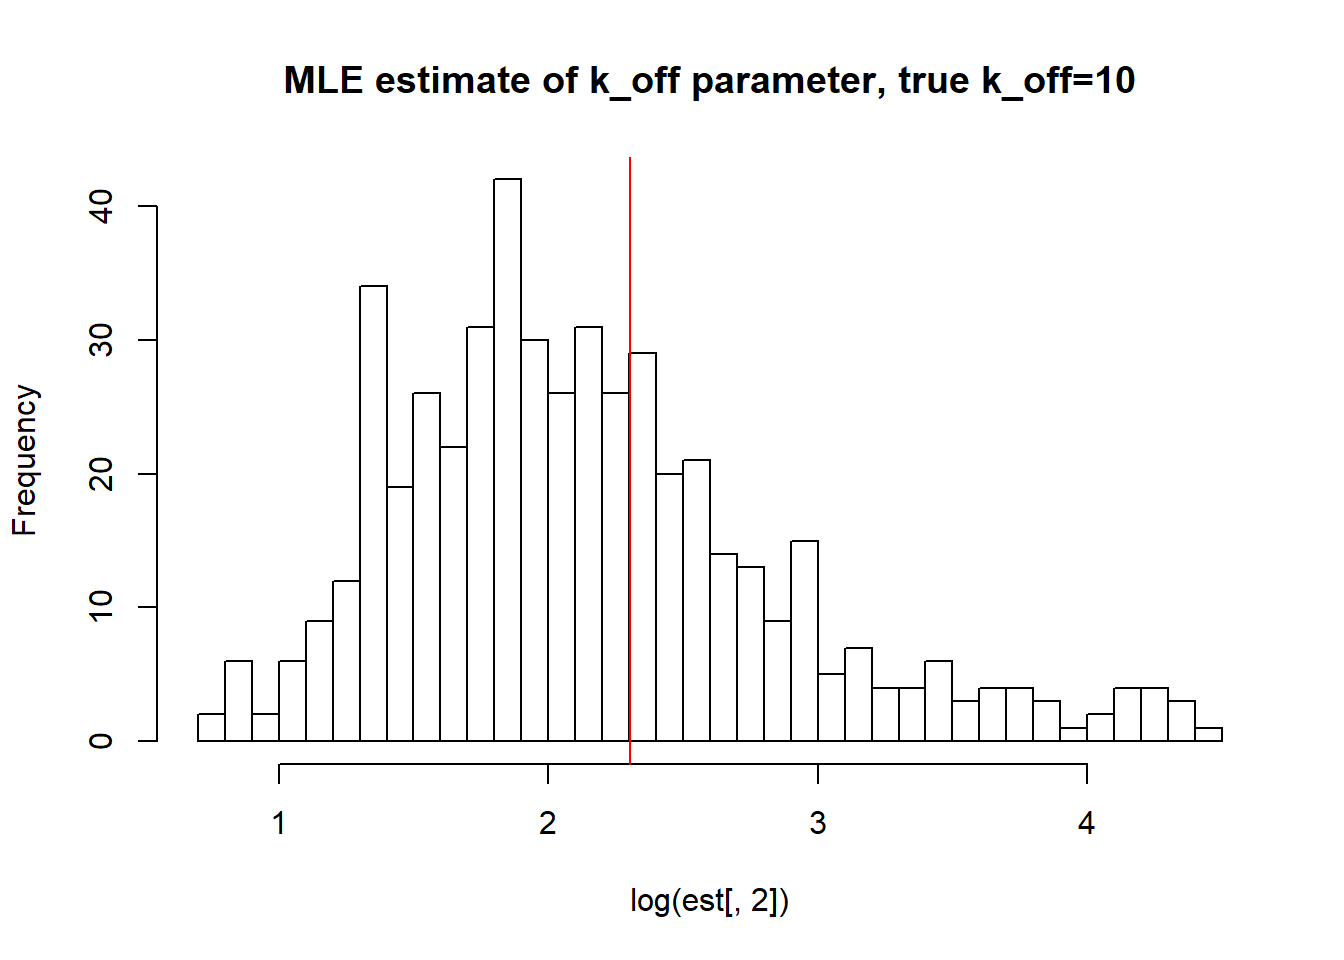
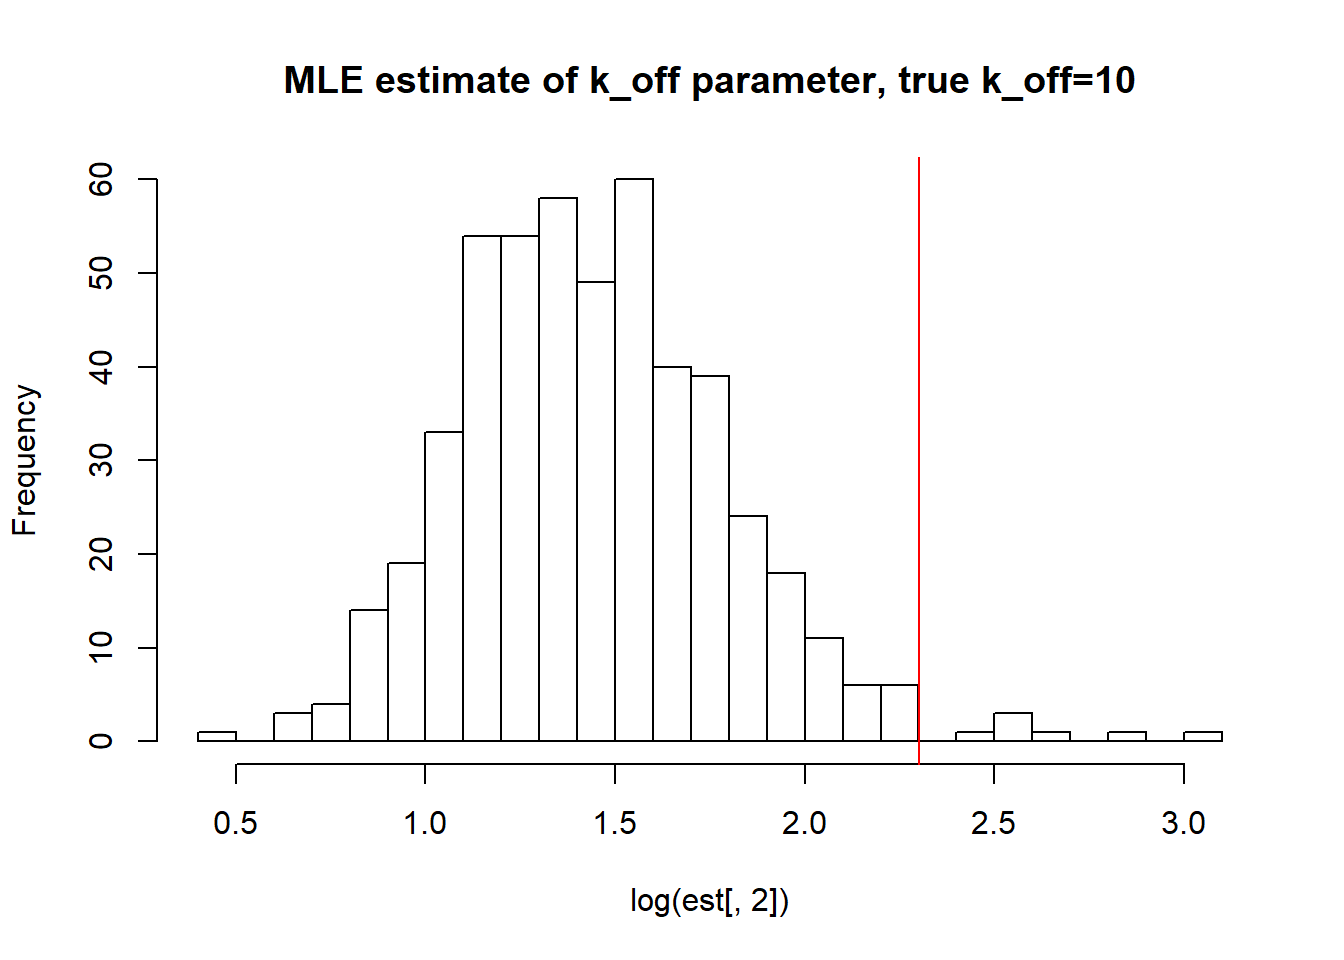
Build site.

diff --git a/docs/MLE_bootstrap.html b/docs/MLE_bootstrap.html
@@ -459,10 +459,10 @@ analysis/MLE.py
 <div class="panel panel-default">
 <div class="panel-heading">
 <p class="panel-title">
-<a data-toggle="collapse" data-parent="#workflowr-checks" href="#strongRepositoryversionstrongahrefhttpsgithubcomMargareth2407ThesissingleRNAtree22e19b2dc88f19d19ec7e51248716d3acc04124btargetblank22e19b2a"> <span class="glyphicon glyphicon-ok text-success" aria-hidden="true"></span> <strong>Repository version:</strong> <a href="https://github.com/Margareth2407/Thesis_single_RNA/tree/22e19b2dc88f19d19ec7e51248716d3acc04124b" target="_blank">22e19b2</a> </a>
+<a data-toggle="collapse" data-parent="#workflowr-checks" href="#strongRepositoryversionstrongahrefhttpsgithubcomMargareth2407ThesissingleRNAtree2367ff31ab141f2fd246efb4c48c546e61797252targetblank2367ff3a"> <span class="glyphicon glyphicon-ok text-success" aria-hidden="true"></span> <strong>Repository version:</strong> <a href="https://github.com/Margareth2407/Thesis_single_RNA/tree/2367ff31ab141f2fd246efb4c48c546e61797252" target="_blank">2367ff3</a> </a>
 </p>
 </div>
[2 lines of base64/hex data omitted]
 <div class="panel-body">
 <p>
 Great! You are using Git for version control. Tracking code development and connecting the code version to the results is critical for reproducibility. The version displayed above was the version of the Git repository at the time these results were generated. <br><br> Note that you need to be careful to ensure that all relevant files for the analysis have been committed to Git prior to generating the results (you can use <code>wflow_publish</code> or <code>wflow_git_commit</code>). workflowr only checks the R Markdown file, but you know if there are other scripts or data files that it depends on. Below is the status of the Git repository when the results were generated:
@@ -511,41 +511,65 @@ There are no past versions. Publish this analysis with <code>wflow_publish()</co
 <li><p>For 500 iterations, sample with replacement bootstrapped data</p></li>
 <li><p>Estimate parameters by maximum likelihood</p></li>
 </ol>
+<pre class="r"><code>bootstrap&lt;-function(boot_number,k_on,k_off,kr,n_cells){
+  est=matrix(, nrow = boot_number, ncol = 3)
+  x=generate_data(k_on,k_off,kr,n_cells)
+  for (i in 1:boot_number){
+    boot_x = as.matrix(x[sample(nrow(x),nrow(x),replace=TRUE)])
+    est[i,]=MaximumLikelihood(boot_x)}
+  return(est)}</code></pre>
 <div id="i-small-k_on-and-k_off-case" class="section level2">
 <h2>I) Small <span class="math inline">\(k_{on}\)</span> and <span class="math inline">\(k_{off}\)</span> case:</h2>
+<pre class="r"><code>#True k_on=k_off=0.1
+boot_number=500
+k_on=as.numeric(0.1)
+k_off=as.numeric(0.1)
+kr=as.numeric(100)
+n_cells=as.integer(500)
+est&lt;-bootstrap(boot_number,k_on,k_off,kr,n_cells)
+
+hist(log(est[,1]),breaks=30, main=&quot;MLE estimate of k_on parameter,true k_on=0.1&quot;)
+abline(v=log(0.1),col=&#39;red&#39;)</code></pre>
 <p><img src="figure/MLE_bootstrap.Rmd/unnamed-chunk-3-1.png" width="672" style="display: block; margin: auto;" /></p>
-<pre><code>[1] &quot;true k_on is 0.1; k_on mean; 0.098 k_on median 0.098 k_on st.deviation 0.01&quot;</code></pre>
+<pre class="r"><code>paste(&quot;true k_on is 0.1;&quot;,&quot;k_on mean;&quot;,round(mean(est[,1],na.rm=TRUE),3),&quot;k_on median&quot;, round(median(est[,1],na.rm=TRUE),3),&quot;k_on st.deviation&quot;,round(sqrt(var(est[,1])),3))</code></pre>
+<pre><code>[1] &quot;true k_on is 0.1; k_on mean; 0.117 k_on median 0.117 k_on st.deviation 0.011&quot;</code></pre>
+<pre class="r"><code>hist(log(est[,2]),breaks=30, main=&quot;MLE estimate of k_off parameter, true k_off=0.1&quot;)
+abline(v=log(0.1),col=&#39;red&#39;)</code></pre>
 <p><img src="figure/MLE_bootstrap.Rmd/unnamed-chunk-3-2.png" width="672" style="display: block; margin: auto;" /></p>
-<pre><code>[1] &quot;true k_off is 0.1; k_off mean; 0.101 k_off median 0.1 k_off st.deviation 0.013&quot;</code></pre>
+<pre class="r"><code>paste(&quot;true k_off is 0.1;&quot;,&quot;k_off mean;&quot;,round(mean(est[,2],na.rm=TRUE),3),&quot;k_off median&quot;, round(median(est[,2],na.rm=TRUE),3),&quot;k_off st.deviation&quot;,round(sqrt(var(est[,2])),3))</code></pre>
+<pre><code>[1] &quot;true k_off is 0.1; k_off mean; 0.107 k_off median 0.107 k_off st.deviation 0.012&quot;</code></pre>
+<pre class="r"><code>hist(log(est[,3]),breaks=30, main=&quot;MLE estimate of k_r parameter,true k_r=100&quot;)
+abline(v=log(100),col=&#39;red&#39;)</code></pre>
 <p><img src="figure/MLE_bootstrap.Rmd/unnamed-chunk-3-3.png" width="672" style="display: block; margin: auto;" /></p>
-<pre><code>[1] &quot;true k_r is 100; k_r mean; 99.182 k_r median 99.167 k_r st.deviation 0.798&quot;</code></pre>
+<pre class="r"><code>paste(&quot;true k_r is 100;&quot;,&quot;k_r mean;&quot;,round(mean(est[,3],na.rm=TRUE),3),&quot;k_r median&quot;, round(median(est[,3],na.rm=TRUE),3),&quot;k_r st.deviation&quot;,round(sqrt(var(est[,3])),3))</code></pre>
+<pre><code>[1] &quot;true k_r is 100; k_r mean; 99.636 k_r median 99.585 k_r st.deviation 0.792&quot;</code></pre>
 </div>
 <div id="ii-large-k_on-and-k_off-case" class="section level2">
 <h2>II) Large <span class="math inline">\(k_{on}\)</span> and <span class="math inline">\(k_{off}\)</span> case:</h2>
 <p><img src="figure/MLE_bootstrap.Rmd/unnamed-chunk-4-1.png" width="672" style="display: block; margin: auto;" /></p>
-<pre><code>[1] &quot;true k_on is 10; k_on mean; 9.958 k_on median 9.452 k_on st.deviation 2.498&quot;</code></pre>
+<pre><code>[1] &quot;true k_on is 10; k_on mean; 7.574 k_on median 7.419 k_on st.deviation 1.287&quot;</code></pre>
 <p><img src="figure/MLE_bootstrap.Rmd/unnamed-chunk-4-2.png" width="672" style="display: block; margin: auto;" /></p>
-<pre><code>[1] &quot;true k_off is 10; k_off mean; 11.688 k_off median 7.73 k_off st.deviation 12.682&quot;</code></pre>
+<pre><code>[1] &quot;true k_off is 10; k_off mean; 4.554 k_off median 4.121 k_off st.deviation 1.929&quot;</code></pre>
 <p><img src="figure/MLE_bootstrap.Rmd/unnamed-chunk-4-3.png" width="672" style="display: block; margin: auto;" /></p>
-<pre><code>[1] &quot;true k_r is 100; k_r mean; 100.641 k_r median 90.208 k_r st.deviation 35.046&quot;</code></pre>
+<pre><code>[1] &quot;true k_r is 100; k_r mean; 78.929 k_r median 77.828 k_r st.deviation 6.612&quot;</code></pre>
 </div>
 <div id="iii-large-value-if-k_off-and-small-k_on-case" class="section level2">
 <h2>III) Large value if <span class="math inline">\(k_{off}\)</span> and small <span class="math inline">\(k_{on}\)</span> case:</h2>
 <p><img src="figure/MLE_bootstrap.Rmd/unnamed-chunk-5-1.png" width="672" style="display: block; margin: auto;" /></p>
-<pre><code>[1] &quot;true k_on is 1; k_on mean; 0.865 k_on median 0.864 k_on st.deviation 0.075&quot;</code></pre>
+<pre><code>[1] &quot;true k_on is 1; k_on mean; 0.915 k_on median 0.912 k_on st.deviation 0.084&quot;</code></pre>
 <p><img src="figure/MLE_bootstrap.Rmd/unnamed-chunk-5-2.png" width="672" style="display: block; margin: auto;" /></p>
-<pre><code>[1] &quot;true k_off is 10; k_off mean; 6.903 k_off median 5.308 k_off st.deviation 6.939&quot;</code></pre>
+<pre><code>[1] &quot;true k_off is 10; k_off mean; 7.233 k_off median 5.887 k_off st.deviation 5.589&quot;</code></pre>
 <p><img src="figure/MLE_bootstrap.Rmd/unnamed-chunk-5-3.png" width="672" style="display: block; margin: auto;" /></p>
-<pre><code>[1] &quot;true k_r is 100; k_r mean; 83.041 k_r median 68.068 k_r st.deviation 61.638&quot;</code></pre>
+<pre><code>[1] &quot;true k_r is 100; k_r mean; 78.04 k_r median 67.823 k_r st.deviation 41.787&quot;</code></pre>
 </div>
 <div id="iv-small-value-if-k_off-and-big-k_on" class="section level2">
 <h2>IV) Small value if <span class="math inline">\(k_{off}\)</span> and big <span class="math inline">\(k_{on}\)</span></h2>
 <p><img src="figure/MLE_bootstrap.Rmd/unnamed-chunk-6-1.png" width="672" style="display: block; margin: auto;" /></p>
-<pre><code>[1] &quot;true k_on is 10; k_on mean; 9.374 k_on median 8.962 k_on st.deviation 2.312&quot;</code></pre>
+<pre><code>[1] &quot;true k_on is 10; k_on mean; 10.871 k_on median 10.622 k_on st.deviation 2.145&quot;</code></pre>
 <p><img src="figure/MLE_bootstrap.Rmd/unnamed-chunk-6-2.png" width="672" style="display: block; margin: auto;" /></p>
-<pre><code>[1] &quot;true k_off is 1; k_off mean; 0.942 k_off median 0.835 k_off st.deviation 0.488&quot;</code></pre>
+<pre><code>[1] &quot;true k_off is 1; k_off mean; 1.532 k_off median 1.407 k_off st.deviation 0.639&quot;</code></pre>
 <p><img src="figure/MLE_bootstrap.Rmd/unnamed-chunk-6-3.png" width="672" style="display: block; margin: auto;" /></p>
-<pre><code>[1] &quot;true k_r is 100; k_r mean; 99.211 k_r median 98.889 k_r st.deviation 2.198&quot;</code></pre>
+<pre><code>[1] &quot;true k_r is 100; k_r mean; 102.767 k_r median 102.477 k_r st.deviation 2.673&quot;</code></pre>
 <br>
 <p>
 <button type="button" class="btn btn-default btn-workflowr btn-workflowr-sessioninfo" data-toggle="collapse" data-target="#workflowr-sessioninfo" style="display: block;">
